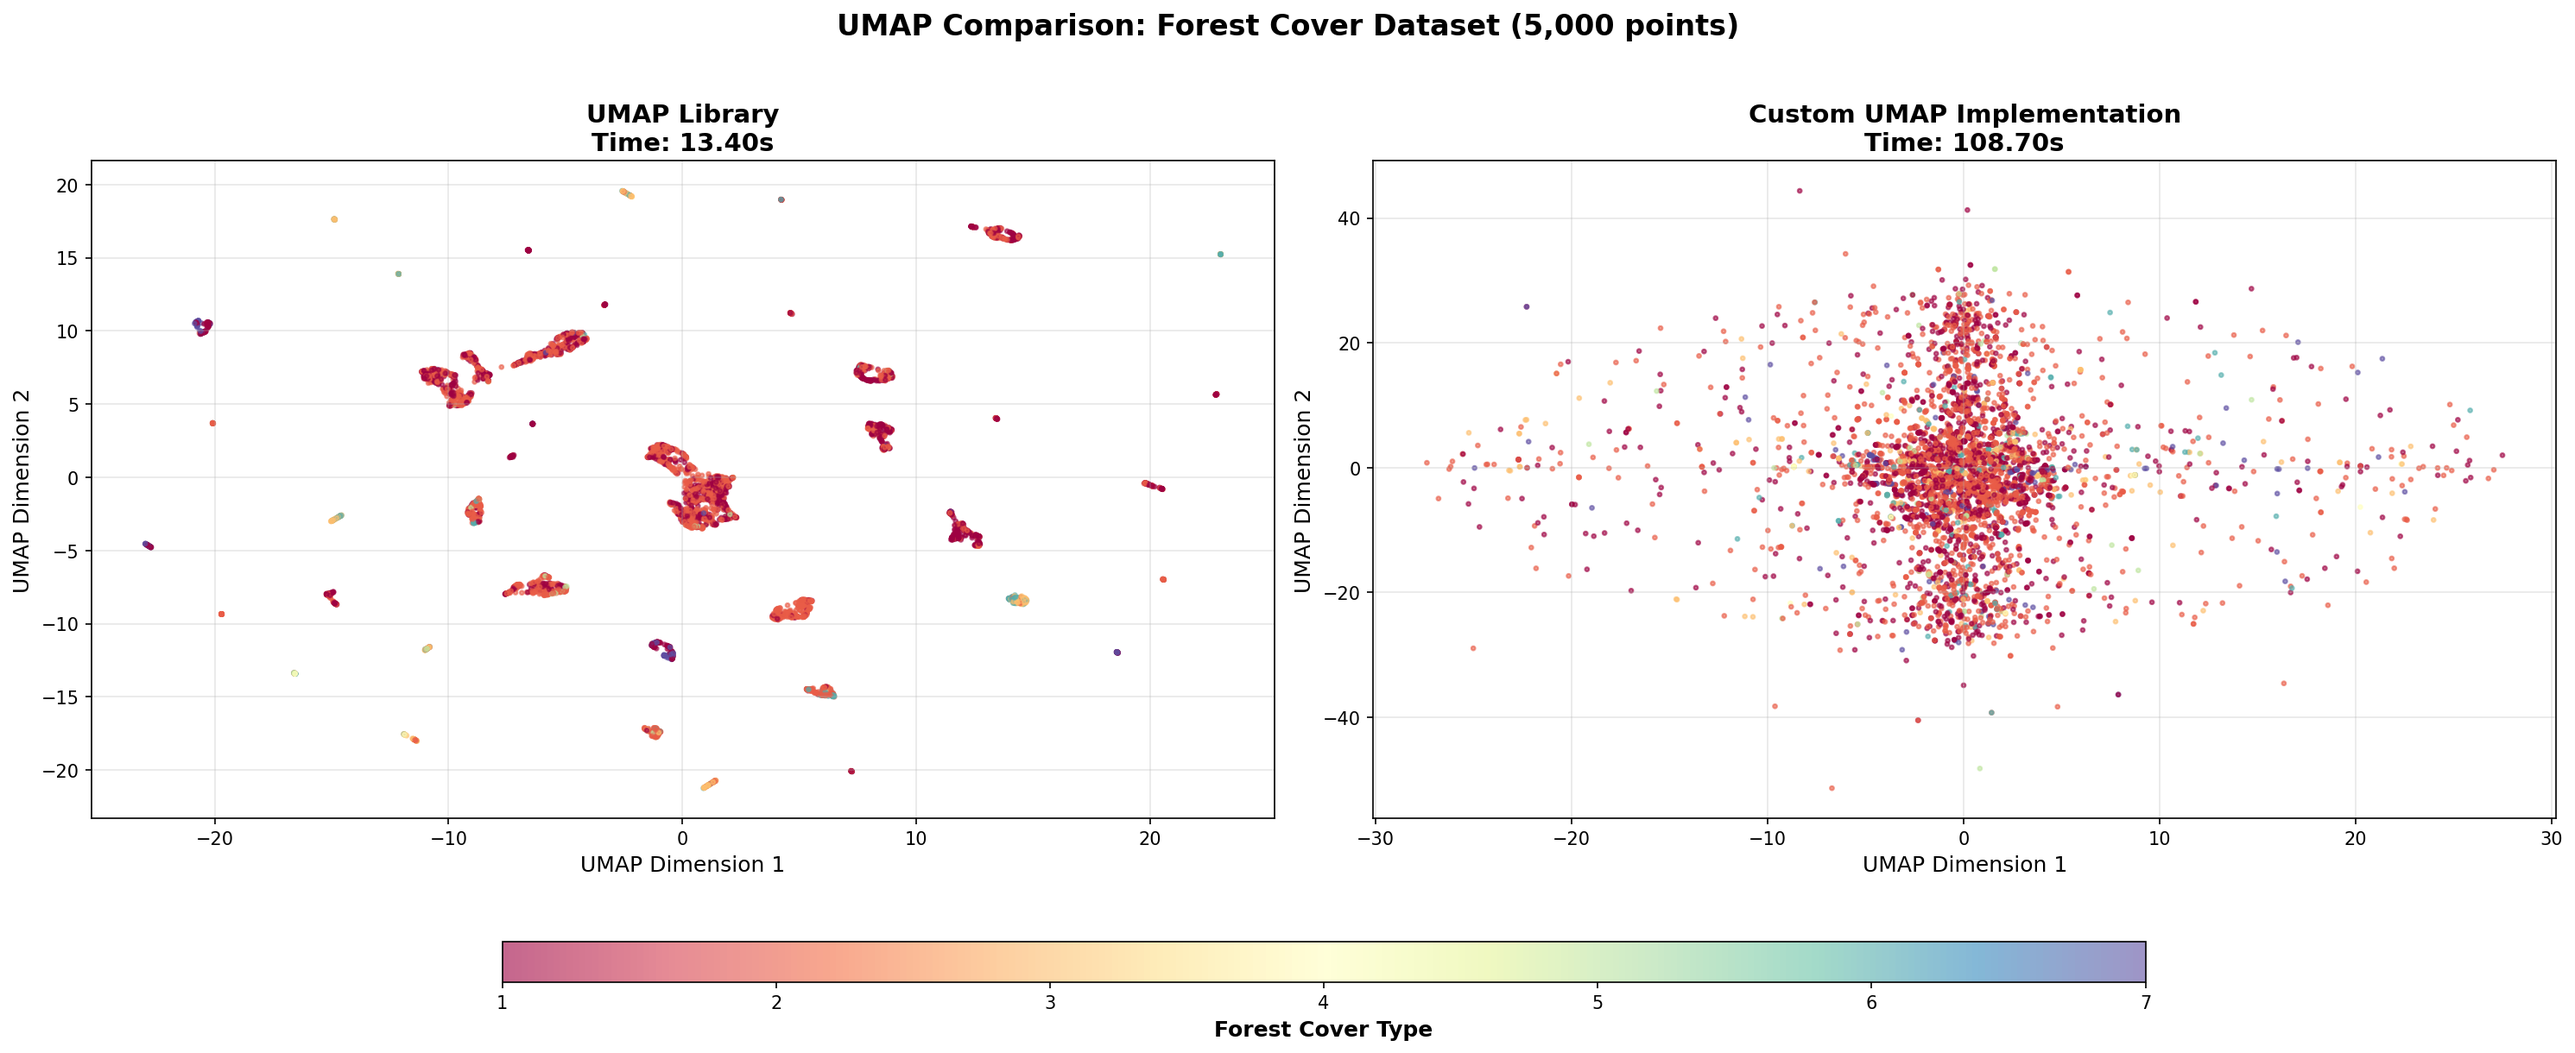
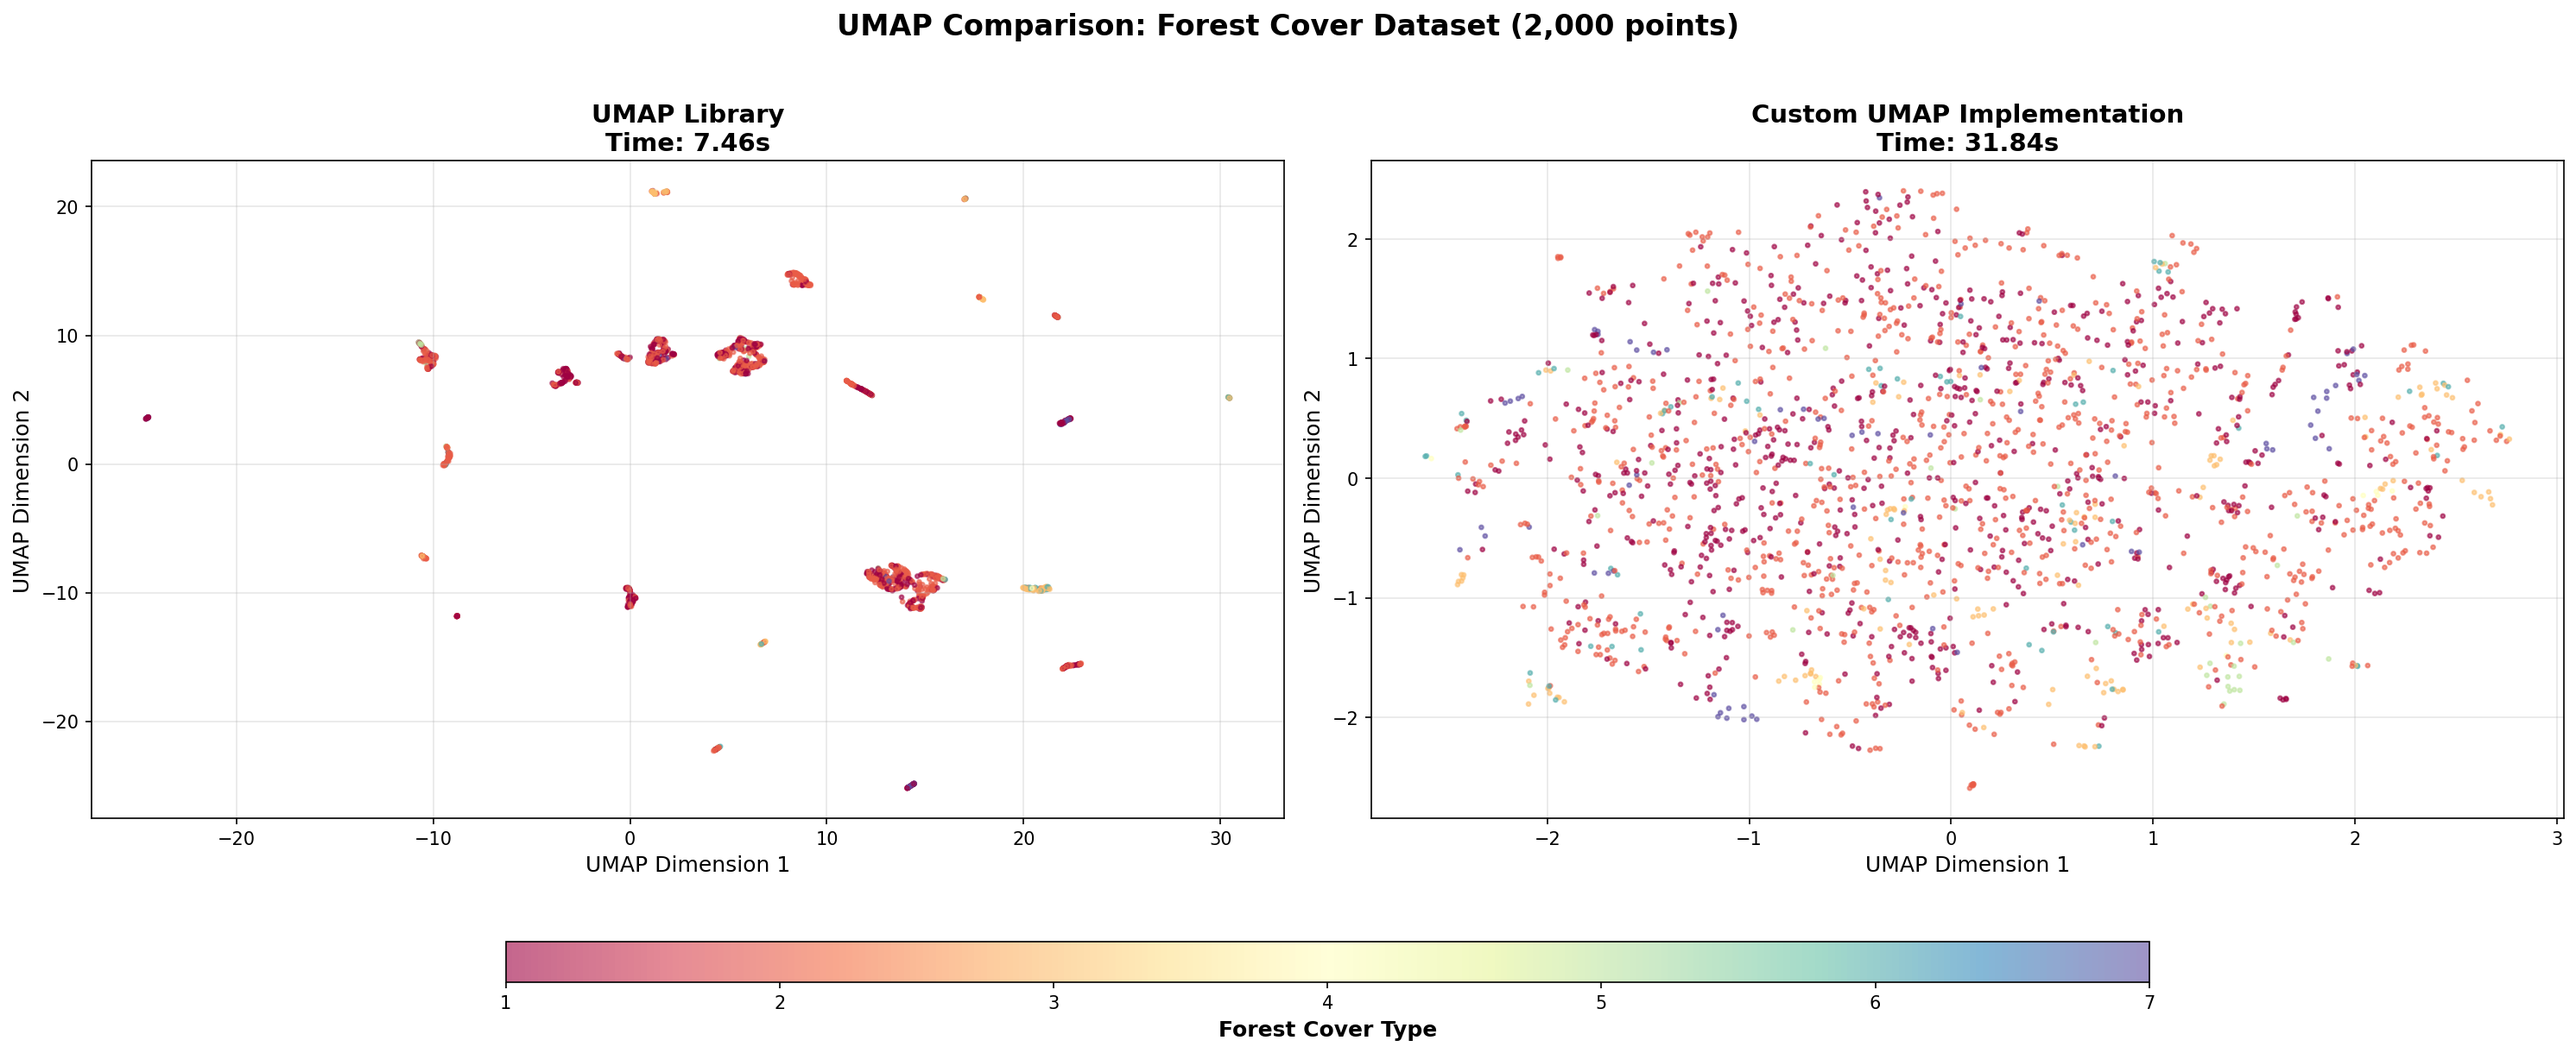
latest changes

diff --git a/datasets_description.tex b/datasets_description.tex
@@ -1,0 +1,1 @@
+We evaluate our UMAP implementation on three diverse datasets that span different domains and scales. The \textbf{Forest Covertype} dataset contains approximately 581,000 samples with 54 features, representing different forest cover types based on cartographic variables. This dataset is primarily used to assess the clustering performance of dimensionality reduction methods, as it contains well-defined classes that should form distinct clusters in the embedding space. The \textbf{Fashion-MNIST} dataset consists of 70,000 grayscale images of fashion items across 10 classes, with each image represented as a 784-dimensional vector. This dataset serves multiple purposes: we use it for qualitative visual comparisons between different dimensionality reduction techniques, to evaluate intrinsic quality measures such as trustworthiness and continuity, and to assess downstream clustering performance across different embedding dimensions. Finally, the \textbf{Mini-BooNE} dataset is a physics dataset from particle physics experiments, containing approximately 130,000 instances with 50 features, used to distinguish between electron neutrinos (signal) and muon neutrinos (background). This dataset is particularly valuable for evaluating the computational scalability of our algorithms, as it allows us to test performance across a wide range of sample sizes and embedding dimensions, demonstrating how different methods scale with both the number of data points and the target dimensionality.

diff --git a/umap_comparisons/test_custom_umap_forest.py b/umap_comparisons/test_custom_umap_forest.py
@@ -32,7 +32,7 @@ scaler = StandardScaler()
 X_scaled = scaler.fit_transform(X)
 
 # Use a subset:
-n_points = 5000
+n_points = 3500
 indices = np.random.choice(len(X_scaled), n_points, replace=False)
 X_scaled = X_scaled[indices]
 y = y[indices]
@@ -50,8 +50,8 @@ umap_custom = umap_mapping(
     n_neighbors=15,
     n_components=2,
     min_dist=0.1,
-    KNN_method='approx',  # 'exact' or 'approx'
-    random_state=42
+    KNN_method='exact'  # 'exact' or 'approx'
+    # Note: random_state parameter is not available in umap_mapping
 )
 
 print("\nRunning UMAP library...")
